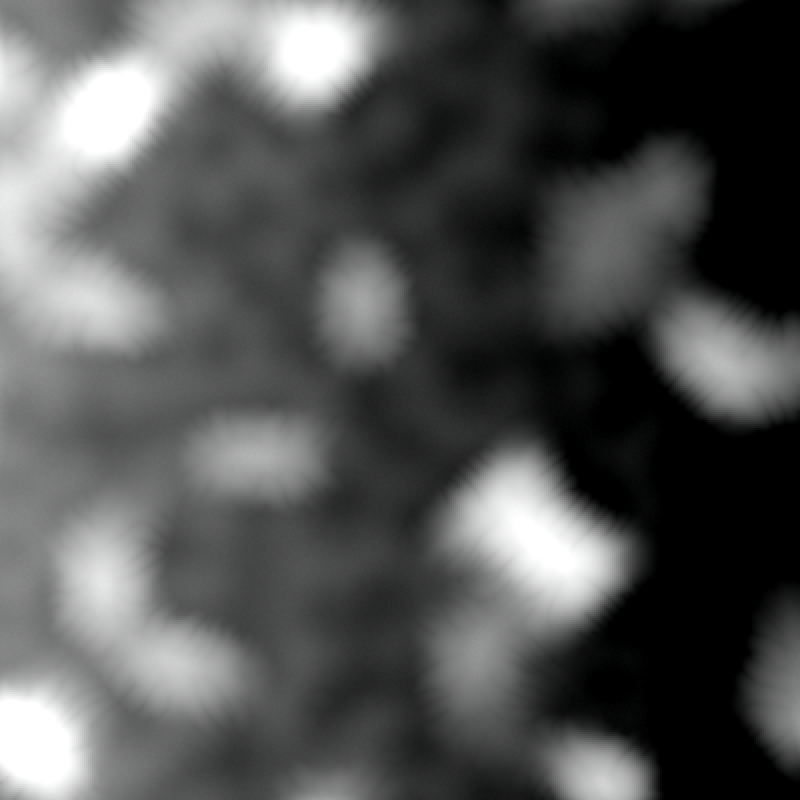
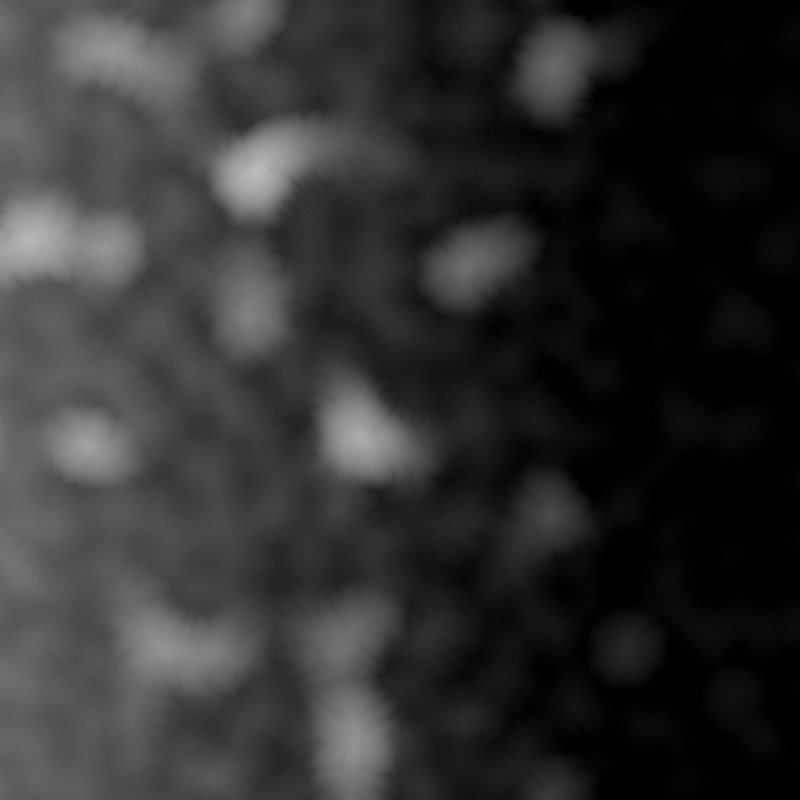
reinstating shore flattening; smaller hills.

diff --git a/tests/browser/city/erosion.js b/tests/browser/city/erosion.js
@@ -4,10 +4,10 @@ noise.seed(Math.random());
 
 var CELLSIZE = 2;
 var SIZE = canvas.width / CELLSIZE;
-var NOISE_SCALE = 60;
-var NOISE_DIF = 3;
+var NOISE_SCALE = 70;
+var NOISE_DIF = 8;
 var NOISE_SCALE_2 = 20;
-var NOISE_DIF_2 = 12;
+var NOISE_DIF_2 = 16;
 var RAND_SCALE = 2;
 var cycles = 0;
 var CYCLES = 6;
@@ -15,7 +15,7 @@ var MAX_CYCLES = 50;
 var WATER_SCALE = 1;
 var HEIGHT_POW = 1.95;
 var HEIGHT_FACTOR = 0.05;
-var SLOPE_SCALE =100;
+var SLOPE_SCALE = 100;
 var SLOPE_OFFSET = 0.25;
 var erosion;
 
@@ -26,7 +26,7 @@ function render(canvas, doBlue) {
 
     erosion.data.each(function (i, j, cell) {
         var height = erosion.height(cell);
-        var shade = Math.max(0, Math.min(255, (255 * height / 150)));
+        var shade = Math.max(0, Math.min(255, (255 * height / 200)));
         ctx.fillStyle = 'rgb(' + Math.floor(shade) + ',' + Math.round(shade) + ',' + Math.ceil(shade) + ')';
         ctx.fillRect(CELLSIZE * i, CELLSIZE * j, CELLSIZE, CELLSIZE);
         if (doBlue) {
@@ -52,13 +52,16 @@ erosion = new Erosion({
     heightFn: function (i, j) {
         var random = RAND_SCALE * Math.random();
         var slope = SLOPE_SCALE * (SLOPE_OFFSET + (i - SIZE / 2) * -1 / SIZE);
-        var hills = Math.max(0, NOISE_SCALE * noise.simplex2(i * NOISE_DIF / SIZE, j * NOISE_DIF / SIZE));
+        var hills = Math.max(0, NOISE_SCALE * noise.perlin2(i * NOISE_DIF / SIZE, j * NOISE_DIF / SIZE));
         var hi = hills < 0 ? -1 : 1;
-        hills = HEIGHT_FACTOR *  hi * Math.pow(Math.abs(hills), HEIGHT_POW);
+        hills = HEIGHT_FACTOR * hi * Math.pow(Math.abs(hills), HEIGHT_POW);
         var height = slope
           + random
           + hills;
-return height;
+        if (i > SIZE * 0.6) {
+            height *= (SIZE - i) / (SIZE * 0.4)
+        }
+        return height;
     }
 });
 
